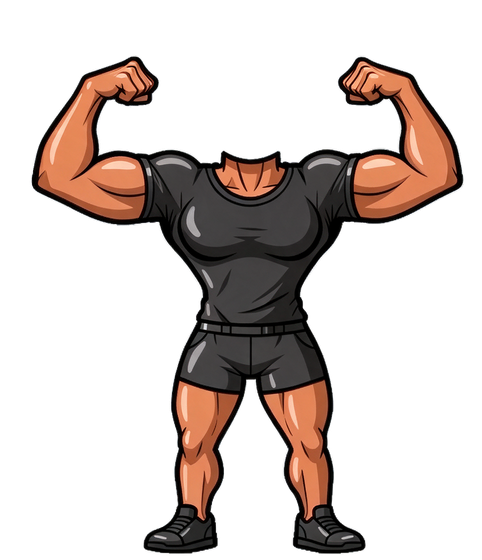
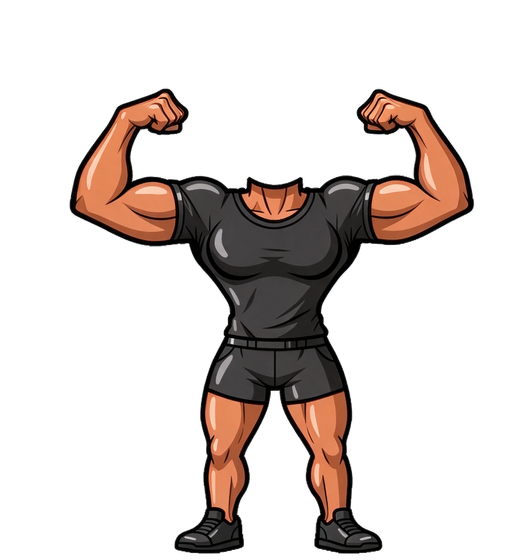
Gym Bros: men's levels with bigger steps, up to the reference build
Claude-Session: https://claude.ai/code/session_01JFp6iswHHaXm5YTZNqTb2P

Changed region(s): [[0.0622, 0.0911, 0.9647, 1.0]]

diff --git a/src/components/social/broGeo.ts b/src/components/social/broGeo.ts
@@ -3,18 +3,18 @@
  * by height) and its radius (by height). The same for every picture, so the logo never moves between levels. */
 export type BroKey = 'm1' | 'm2' | 'm3' | 'm4' | 'm5' | 'm6' | 'm7' | 'w1' | 'w2' | 'w3' | 'w4' | 'w5' | 'w6' | 'w7';
 export const BRO_GEO: Record<BroKey, [number, number, number, number]> = {
-  m1: [0.8615, 0.487, 0.2316, 0.094],
-  m2: [0.8615, 0.487, 0.2316, 0.094],
-  m3: [0.8615, 0.487, 0.2316, 0.094],
-  m4: [0.8615, 0.487, 0.2316, 0.094],
-  m5: [0.8615, 0.487, 0.2316, 0.094],
-  m6: [0.8615, 0.487, 0.2316, 0.094],
-  m7: [0.8615, 0.487, 0.2316, 0.094],
-  w1: [0.8615, 0.487, 0.2316, 0.094],
-  w2: [0.8615, 0.487, 0.2316, 0.094],
-  w3: [0.8615, 0.487, 0.2316, 0.094],
-  w4: [0.8615, 0.487, 0.2316, 0.094],
-  w5: [0.8615, 0.487, 0.2316, 0.094],
-  w6: [0.8615, 0.487, 0.2316, 0.094],
-  w7: [0.8615, 0.487, 0.2316, 0.094],
+  m1: [0.9494, 0.4889, 0.2777, 0.094],
+  m2: [0.9494, 0.4889, 0.2777, 0.094],
+  m3: [0.9494, 0.4889, 0.2777, 0.094],
+  m4: [0.9494, 0.4889, 0.2777, 0.094],
+  m5: [0.9494, 0.4889, 0.2777, 0.094],
+  m6: [0.9494, 0.4889, 0.2777, 0.094],
+  m7: [0.9494, 0.4889, 0.2777, 0.094],
+  w1: [0.9494, 0.4889, 0.2777, 0.094],
+  w2: [0.9494, 0.4889, 0.2777, 0.094],
+  w3: [0.9494, 0.4889, 0.2777, 0.094],
+  w4: [0.9494, 0.4889, 0.2777, 0.094],
+  w5: [0.9494, 0.4889, 0.2777, 0.094],
+  w6: [0.9494, 0.4889, 0.2777, 0.094],
+  w7: [0.9494, 0.4889, 0.2777, 0.094],
 };

diff --git a/ADRO-chat-log.md b/ADRO-chat-log.md
@@ -799,7 +799,7 @@ Passwords and keys are left out on purpose.
 
 **Built:**
 - All pictures edited with Seedream 5.0 Flash: forearms folded in, fists by the biceps (like the reference).
-- 7 levels each for men and women, with new in-between characters. The men's set now tops out at the old level 3 (abs, not huge), so each step is small.
+- 7 levels each for men and women, with new in-between characters. Men: tried smaller steps first; the owner then asked for bigger differences, so men go from skinny to the big reference build.
 - Every picture scaled to the same height (neck to feet) and standing on one line, so the logo sits in exactly the same place and size at every level.
 - The head is the app logo (white ring open at the top left, on the person's colour) with a glow around it. It doesn't change with level.
 - Levels from the 30-day commitment: under 30, 30–41, 42–54, 55–67, 68–79, 80–89, 90+ (Starter, Warming up, Getting there, Solid, Strong, Very strong, Beast). Someone who doesn't share it shows level 3.
